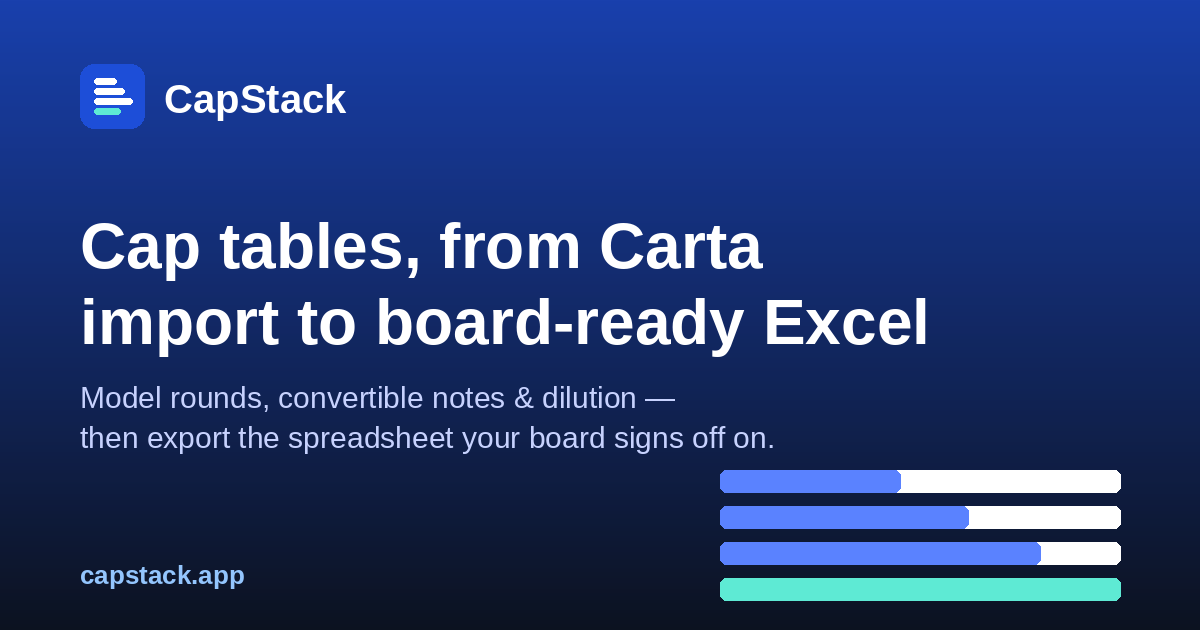
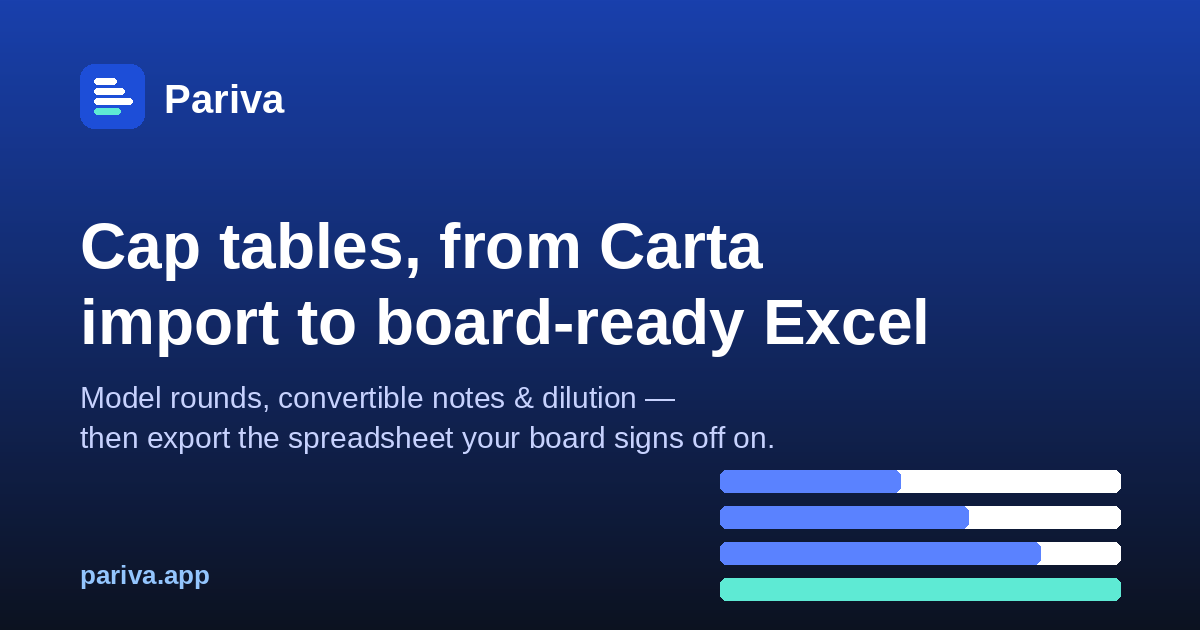
Rebrand CapStack -> Pariva across UI, SEO & exports
The product is being renamed to Pariva. Swaps every user-facing 'CapStack'
reference for 'Pariva': the top-bar and marketing header/footer wordmarks,
landing + pricing copy, page titles, meta description, and the JSON-LD
Organization / WebSite / SoftwareApplication / Product names. Also updates
the og:image alt + site name, the Excel export creator metadata on the
board-approval and fairness exports, and the settings import-template copy.

Brand assets: favicon now renders a 'P' on brand blue, and the OG social
card is regenerated with the Pariva wordmark and pariva.app URL. The default
siteUrl falls back to https://pariva.app (override with NUXT_PUBLIC_SITE_URL).

The Brandmark (abstract stacked bars) is kept as an interim mark until the
final Pariva logo art lands — it's brand-neutral, not lettered. A handful of
internal code comments still reference the old name; cosmetic only.

Changed region(s): [[0.1233, 0.1206, 0.3083, 0.181], [0.0617, 0.9048, 0.2158, 0.9349]]

diff --git a/app/pages/index.vue b/app/pages/index.vue
@@ -10,8 +10,8 @@ definePageMeta({ layout: 'marketing' })
 
 const { origin, url } = useSeo({
   path: '/',
-  title: 'CapStack — Cap Table & Dilution Software | Carta Import to Excel',
-  description: 'CapStack is cap table software for founders and operators. Import your Carta export, model funding rounds, convertible notes, and dilution, then export a board-ready Excel for every option grant.',
+  title: 'Pariva — Cap Table & Dilution Software | Carta Import to Excel',
+  description: 'Pariva is cap table software for founders and operators. Import your Carta export, model funding rounds, convertible notes, and dilution, then export a board-ready Excel for every option grant.',
   type: 'website',
 })
 
@@ -24,7 +24,7 @@ const jsonLd = {
     {
       '@type': 'Organization',
       '@id': `${origin}/#organization`,
-      name: 'CapStack',
+      name: 'Pariva',
       url: origin,
       logo: `${origin}/og-image.png`,
       description: 'Cap table and scenario modelling software for founders, operators, and the firms backing them.',
@@ -33,14 +33,14 @@ const jsonLd = {
       '@type': 'WebSite',
       '@id': `${origin}/#website`,
       url: origin,
-      name: 'CapStack',
+      name: 'Pariva',
       publisher: { '@id': `${origin}/#organization` },
       inLanguage: 'en-US',
     },
     {
       '@type': 'SoftwareApplication',
       '@id': `${origin}/#software`,
-      name: 'CapStack',
+      name: 'Pariva',
       applicationCategory: 'BusinessApplication',
       applicationSubCategory: 'Cap Table Management',
       operatingSystem: 'Web',
@@ -103,7 +103,7 @@ const steps = [
             to <span class="text-brand">board-ready Excel</span>.
           </h1>
           <p class="mt-5 text-lg text-ink-600 leading-relaxed max-w-2xl">
-            CapStack is the cap-table and scenario modeller for operators. Import your Carta export,
+            Pariva is the cap-table and scenario modeller for operators. Import your Carta export,
             build a clean record of financings, attribute convertible notes, model dilution, and
             export the spreadsheet your board signs off on.
           </p>

diff --git a/app/pages/pricing.vue b/app/pages/pricing.vue
@@ -8,8 +8,8 @@ definePageMeta({ layout: 'marketing' })
 
 const { origin, url } = useSeo({
   path: '/pricing',
-  title: 'Pricing — CapStack Cap Table Software',
-  description: 'Simple per-company pricing for CapStack. Start free on one cap table; upgrade to Pro for Carta import and board-ready Excel exports, or Firm for unlimited multi-seat workspaces.',
+  title: 'Pricing — Pariva Cap Table Software',
+  description: 'Simple per-company pricing for Pariva. Start free on one cap table; upgrade to Pro for Carta import and board-ready Excel exports, or Firm for unlimited multi-seat workspaces.',
   type: 'product',
 })
 
@@ -45,9 +45,9 @@ const jsonLd = {
     },
     {
       '@type': 'Product',
-      name: 'CapStack',
+      name: 'Pariva',
       description: 'Cap table and dilution modelling software with Carta import and board-ready Excel export.',
-      brand: { '@type': 'Brand', name: 'CapStack' },
+      brand: { '@type': 'Brand', name: 'Pariva' },
       offers: PRICING_TIERS.map(t => ({
         '@type': 'Offer',
         name: `${t.name} plan`,

diff --git a/app/layouts/marketing.vue b/app/layouts/marketing.vue
@@ -20,7 +20,7 @@ const year = new Date().getFullYear()
       <div class="max-w-6xl mx-auto h-full px-5 flex items-center gap-6">
         <NuxtLink to="/" class="flex items-center gap-2.5 shrink-0">
           <Brandmark :size="28" :open="true" />
-          <span class="text-[15px] font-bold tracking-tight">Cap<span class="text-brand">Stack</span></span>
+          <span class="text-[15px] font-bold tracking-tight text-ink-900">Pariva</span>
         </NuxtLink>
 
         <nav class="hidden sm:flex items-center gap-1 ml-2">
@@ -54,7 +54,7 @@ const year = new Date().getFullYear()
       <div class="max-w-6xl mx-auto px-5 py-10 flex flex-col sm:flex-row gap-6 sm:items-center justify-between">
         <div class="flex items-center gap-2.5">
           <Brandmark :size="24" :open="true" />
-          <span class="text-[13px] font-semibold tracking-tight">Cap<span class="text-brand">Stack</span></span>
+          <span class="text-[13px] font-semibold tracking-tight text-ink-900">Pariva</span>
           <span class="text-[12px] text-ink-400 ml-2">Cap tables, financings & board-ready exports.</span>
         </div>
         <div class="flex items-center gap-5 text-[13px] text-ink-500">
@@ -64,7 +64,7 @@ const year = new Date().getFullYear()
         </div>
       </div>
       <div class="max-w-6xl mx-auto px-5 pb-8 text-[12px] text-ink-400">
-        © {{ year }} CapStack. All rights reserved.
+        © {{ year }} Pariva. All rights reserved.
       </div>
     </footer>
   </div>

diff --git a/nuxt.config.ts b/nuxt.config.ts
@@ -9,7 +9,7 @@ export default defineNuxtConfig({
       version: CAPSTACK_VERSION,
       // Canonical origin for SEO (canonical links, og:url, sitemap, robots).
       // Override per-deploy with NUXT_PUBLIC_SITE_URL=https://your-domain.
-      siteUrl: process.env.NUXT_PUBLIC_SITE_URL || 'https://capstack.app',
+      siteUrl: process.env.NUXT_PUBLIC_SITE_URL || 'https://pariva.app',
     },
   },
   tailwindcss: {
@@ -18,7 +18,7 @@ export default defineNuxtConfig({
   app: {
     head: {
       htmlAttrs: { lang: 'en' },
-      title: 'CapStack — Cap Tables & Scenarios',
+      title: 'Pariva — Cap Tables & Scenarios',
       link: [
         { rel: 'icon', type: 'image/svg+xml', href: '/favicon.svg' },
         { rel: 'preconnect', href: 'https://fonts.googleapis.com' },
@@ -29,7 +29,7 @@ export default defineNuxtConfig({
         { name: 'description', content: 'Cap table & dilution software: import your Carta export, model rounds and convertible notes, and export a board-ready Excel.' },
         { name: 'theme-color', content: '#1d4ed8' },
         { name: 'format-detection', content: 'telephone=no' },
-        { property: 'og:site_name', content: 'CapStack' },
+        { property: 'og:site_name', content: 'Pariva' },
         { property: 'og:locale', content: 'en_US' },
       ],
     },

diff --git a/app/components/AppTopBar.vue b/app/components/AppTopBar.vue
@@ -18,9 +18,7 @@ const config = useRuntimeConfig()
     <!-- Brand: mark + wordmark. Clicking the brand returns to Companies. -->
     <NuxtLink to="/app" class="flex items-center gap-2.5 shrink-0">
       <Brandmark :size="26" :open="true" />
-      <span class="text-[14px] font-bold text-ink-900 tracking-tight">
-        Cap<span class="text-brand">Stack</span>
-      </span>
+      <span class="text-[14px] font-bold text-ink-900 tracking-tight">Pariva</span>
     </NuxtLink>
 
     <!-- Workspace breadcrumb. When inside a company, show the company name

diff --git a/app/components/Brandmark.vue b/app/components/Brandmark.vue
@@ -1,5 +1,5 @@
 <script setup lang="ts">
-// CapStack brand mark — four horizontal bars stacked, growing in width to
+// Pariva brand mark — four horizontal bars stacked, growing in width to
 // suggest accumulating valuation. The bottom layer flips to a teal fill
 // when `open` is true so the mark itself signals that a round is open for
 // modeling — a literal visual metaphor for what the product does.
@@ -11,7 +11,7 @@ withDefaults(defineProps<Props>(), { size: 28, open: true })
 </script>
 
 <template>
-  <svg :width="size" :height="size" viewBox="0 0 32 32" aria-label="CapStack">
+  <svg :width="size" :height="size" viewBox="0 0 32 32" aria-label="Pariva">
     <rect x="0" y="0" width="32" height="32" rx="7.5" fill="#1d4ed8" />
     <rect x="7" y="7"  width="11" height="3.2" rx="1.6" fill="white" opacity="0.55" />
     <rect x="7" y="12" width="15" height="3.2" rx="1.6" fill="white" opacity="0.75" />

diff --git a/app/composables/useSeo.ts b/app/composables/useSeo.ts
@@ -35,8 +35,8 @@ export function useSeo(opts: SeoOptions) {
     ogImageWidth: 1200,
     ogImageHeight: 630,
     ogImageType: 'image/png',
-    ogImageAlt: 'CapStack — cap table & dilution software',
-    ogSiteName: 'CapStack',
+    ogImageAlt: 'Pariva — cap table & dilution software',
+    ogSiteName: 'Pariva',
     ogLocale: 'en_US',
     twitterCard: 'summary_large_image',
     twitterTitle: opts.title,

diff --git a/app/pages/companies/[id]/settings.vue b/app/pages/companies/[id]/settings.vue
@@ -217,7 +217,7 @@ function resetIdeaMapping(f: CanonicalField) {
       </UiCard>
 
       <!-- Import template field mapping -->
-      <UiCard title="Import template fields" subtitle="The column headers CapStack looks for when importing proposed grants, and the grant field each maps to.">
+      <UiCard title="Import template fields" subtitle="The column headers Pariva looks for when importing proposed grants, and the grant field each maps to.">
         <template #header>
           <span v-if="mappingsSaved" class="text-xs text-emerald-700 font-medium">Saved ✓</span>
           <UiButton variant="primary" :disabled="savingMappings" @click="saveMappings">
@@ -259,7 +259,7 @@ function resetIdeaMapping(f: CanonicalField) {
 
     <!-- Option Pool tab -->
     <div v-else-if="activeTab === 'pool'" class="space-y-6 max-w-4xl">
-      <UiCard title="Ideas import template fields" subtitle="Column headers CapStack looks for when importing option-grant Ideas, and the pool-event field each maps to.">
+      <UiCard title="Ideas import template fields" subtitle="Column headers Pariva looks for when importing option-grant Ideas, and the pool-event field each maps to.">
         <template #header>
           <span v-if="ideaMappingsSaved" class="text-xs text-emerald-700 font-medium">Saved ✓</span>
           <UiButton variant="primary" :disabled="savingIdeaMappings" @click="saveIdeaMappings">

diff --git a/server/api/companies/[id]/board-approval.get.ts b/server/api/companies/[id]/board-approval.get.ts
@@ -116,7 +116,7 @@ export default defineEventHandler(async (event) => {
 
   // ---- Build workbook ----
   const wb = new ExcelJS.Workbook()
-  wb.creator = 'CapStack'
+  wb.creator = 'Pariva'
   wb.created = new Date()
   const ws = wb.addWorksheet('Board Approval', {
     pageSetup: { orientation: 'landscape', fitToPage: true, fitToWidth: 1, fitToHeight: 0, paperSize: 9 },

diff --git a/server/api/companies/[id]/fairness-export.get.ts b/server/api/companies/[id]/fairness-export.get.ts
@@ -20,7 +20,7 @@ export default defineEventHandler(async (event) => {
   const included = data.holders.filter(h => h.include)
 
   const wb = new ExcelJS.Workbook()
-  wb.creator = 'CapStack'
+  wb.creator = 'Pariva'
   wb.created = new Date()
 
   const sectionFill = { type: 'pattern' as const, pattern: 'solid' as const, fgColor: { argb: 'FF4B5F74' } }